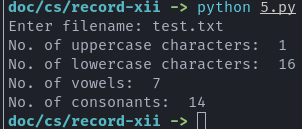
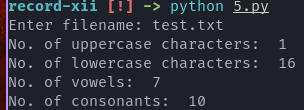
space

diff --git a/5.py b/5.py
@@ -2,7 +2,7 @@
 def count_text(fname):
     with open(fname) as f:
         content = f.read()
-        count_upper = count_lower = count_vow = count_consonants = 0
+        count_upper = count_lower = count_vow = count_consonants = count_space = 0
 
         for i in content.strip():
 
@@ -10,6 +10,9 @@ def count_text(fname):
                 count_vow +=1
             else:
                 count_consonants +=1
+            if i == "\n" or i == " ":
+                count_space += 1
+                
             if i.islower():
                 count_lower +=1
             if i.isupper():
@@ -17,7 +20,7 @@ def count_text(fname):
         print("No. of uppercase characters: ",count_upper)
         print("No. of lowercase characters: ",count_lower)
         print("No. of vowels: ",count_vow)
-        print("No. of consonants: ",count_consonants)
+        print("No. of consonants: ",count_consonants - count_space)
 
 filename = input("Enter filename: ")
 count_text(filename)
